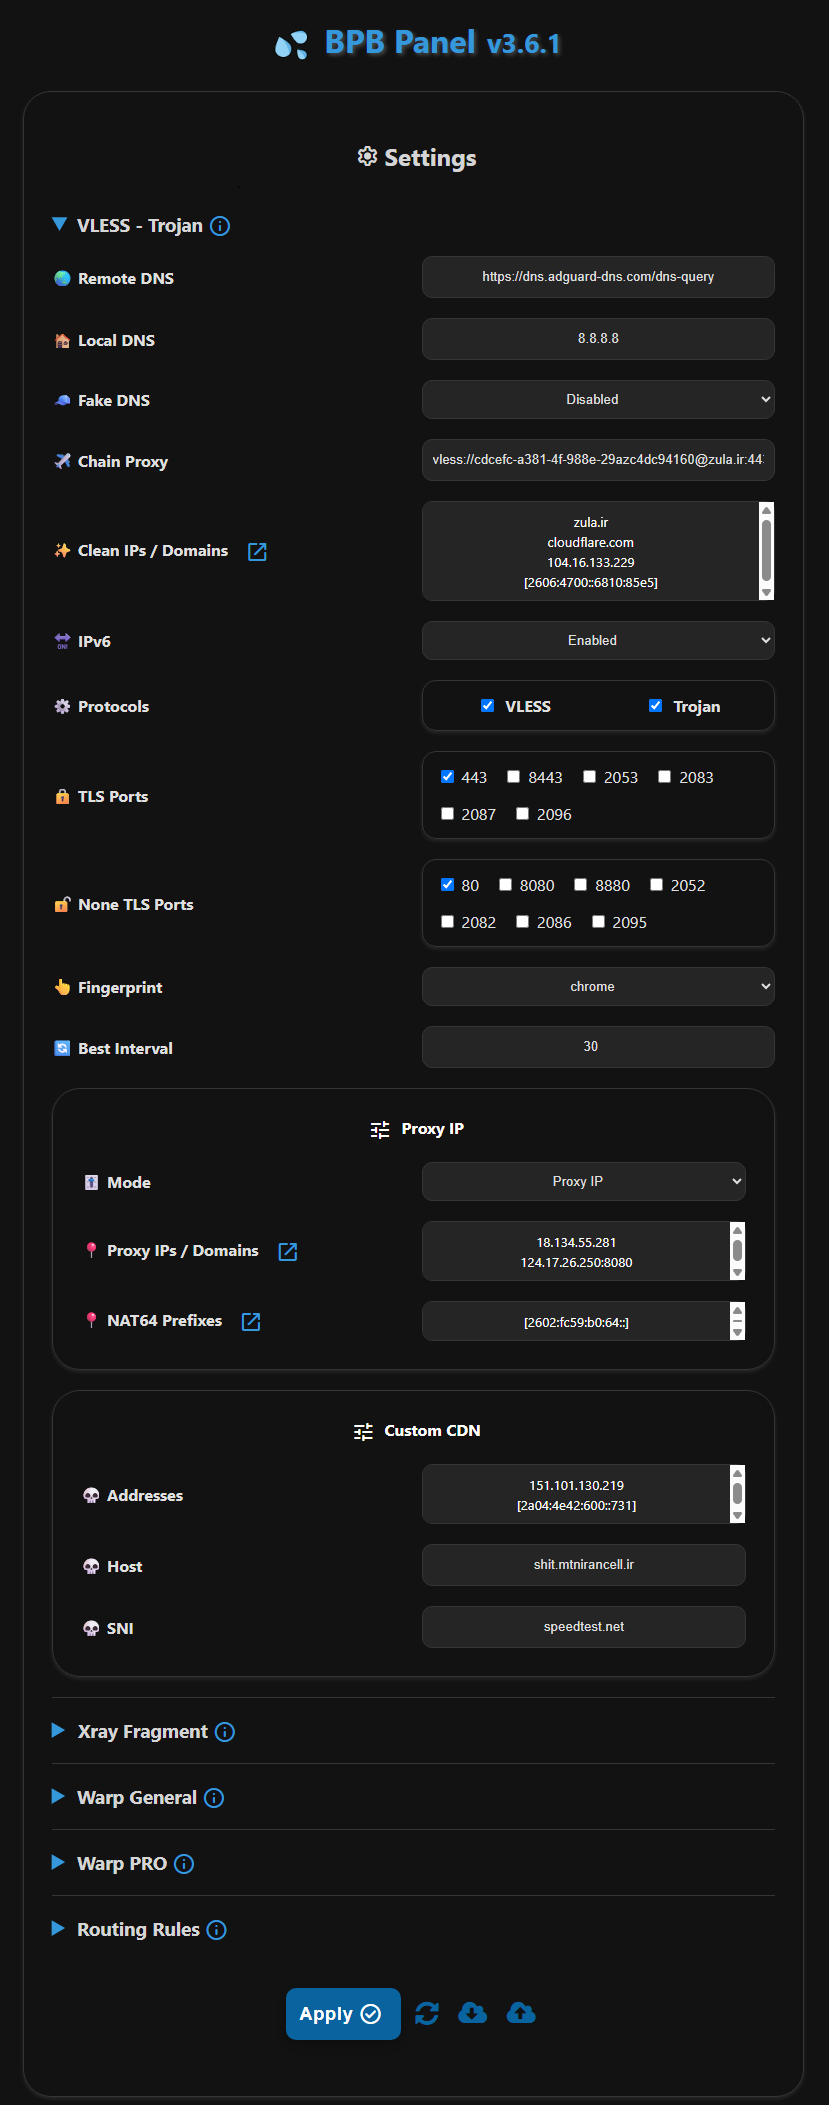
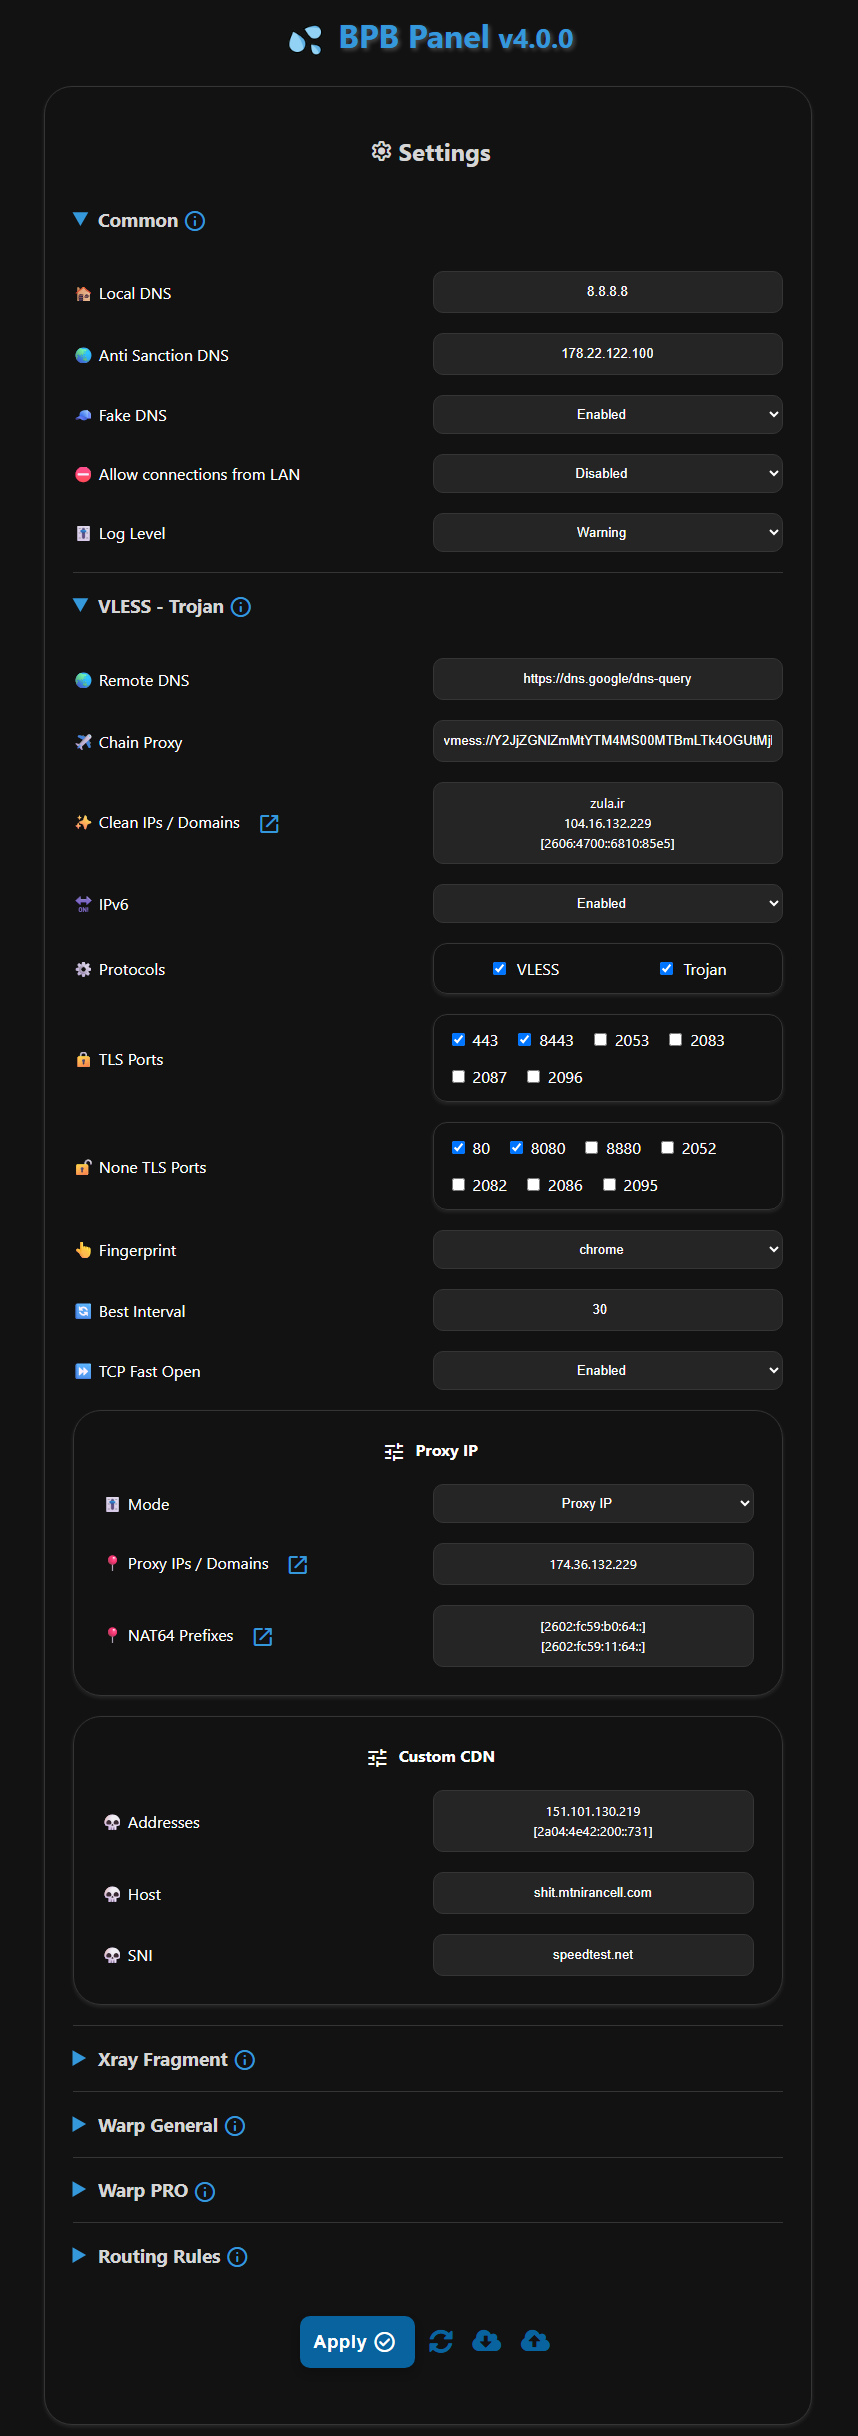
Fixed VMess bug, updated docs.

diff --git a/src/assets/panel/script.js b/src/assets/panel/script.js
@@ -327,7 +327,7 @@ async function updateWarpConfigs() {
     try {
         const response = await fetch('/panel/update-warp', { method: 'POST', credentials: 'include' });
         const { success, status, message } = await response.json();
-        
+
         document.body.style.cursor = 'default';
         refreshBtn.classList.remove('fa-spin');
 
@@ -776,23 +776,31 @@ function validateMinMax() {
 }
 
 function validateChainProxy() {
-    const chainProxy = getElmValue('outProxy');
+    let chainProxy = getElmValue('outProxy');
     if (!chainProxy) return true;
     const isSocksHttp = /(http|socks):\/\/(?:([^:@]+):([^:@]+)@)?([^:@]+):(\d+)$/.test(chainProxy);
-    const isOthers = /(vless|vmess|trojan|ss):\/\/[^\s@]+@[^\s:]+:[^\s]+/.test(chainProxy);
+    const isVMess = /vmess:\/\/.+$/.test(chainProxy);
+    const isOthers = /(vless|trojan|ss):\/\/[^\s@]+@[^\s:]+:[^\s]+/.test(chainProxy);
 
-    if (!isSocksHttp && !isOthers) {
-        alert('⛔ Invalid Config!\n💡 Standard formats are:\n + (socks or http)://user:pass@host:port\n + (socks or http)://host:port\n + vless://uuid@server:port...\n + trojan://password@server:port...\n + ss://password@server:port...');
+    if (!isSocksHttp && !isVMess && !isOthers) {
+        alert('⛔ Invalid Config!\n💡 Standard formats are:\n + (socks or http)://user:pass@server:port\n + (socks or http)://server:port\n + vless://uuid@server:port...\n + vmess://config...\n + trojan://password@server:port...\n + ss://password@server:port...');
         return false;
     }
 
     const config = new URL(chainProxy);
-    const { protocol, username, port } = config;
+    let { protocol, username, port } = config;
+    let security = config.searchParams.get('security');
+    let type = config.searchParams.get('type');
+    
+    if (isVMess) {
+        const vmConfig = JSON.parse(atob(config.host));
+        username = vmConfig.id;
+        port = vmConfig.port;
+        security = vmConfig.tls;
+        type = vmConfig.net;
+    }
 
-    if (['vless:', 'trojan:'].includes(protocol)) {
-        const security = config.searchParams.get('security');
-        const type = config.searchParams.get('type');
-
+    if (['vless:', 'trojan:', 'vmess:'].includes(protocol)) {
         if (!username) {
             alert('⛔ Invalid Config!\n💡 Config URL should contain UUID or Password.');
             return false;
@@ -808,7 +816,7 @@ function validateChainProxy() {
             return false;
         }
 
-        if (security === 'tls' && port !== '443') {
+        if (security === 'tls' && Number(port) !== 443) {
             alert('⛔ Invalid Config!\n💡 VLESS, VMess or Trojan TLS port can be only 443.');
             return false;
         }

diff --git a/src/kv.ts b/src/kv.ts
@@ -164,47 +164,53 @@ function extractChainProxyParams(chainProxy: string) {
 
     let url = new URL(chainProxy);
     const protocol = url.protocol.slice(0, -1);
+    const stdProtocol = protocol === "ss" ? _SS_ : protocol;
 
-    if (protocol === _VM_) {
-        const config = base64DecodeUtf8(url.host);
-        url = new URL(`${_VM_}://${config}`);
+    if (stdProtocol === _VM_) {
+        const config = JSON.parse(base64DecodeUtf8(url.host));
+        return {
+            protocol: stdProtocol,
+            uuid: config.id,
+            server: config.add,
+            port: config.port,
+            type: config.net,
+            headerType: config.type,
+            serviceName: config.path,
+            authority: config.authority,
+            path: config.path,
+            host: config.host,
+            security: config.tls,
+            sni: config.sni,
+            fp: config.fp,
+            alpn: config.alpn
+        };
     }
 
-    const {
-        hostname,
-        port,
-        username,
-        password,
-        search
-    } = url;
-
-    let configParams: any = {
-        protocol: protocol.replace('ss', _SS_),
-        server: hostname,
-        port: +port
+    const configParams: Record<string, string | number> = {
+        protocol: stdProtocol,
+        server: url.hostname,
+        port: +url.port
     };
 
     const parseParams = () => {
-        const params = new URLSearchParams(search);
-        for (const [key, value] of params) {
+        for (const [key, value] of url.searchParams) {
             configParams[key] = value;
         }
     }
 
-    switch (protocol) {
+    switch (stdProtocol) {
         case _VL_:
-        case _VM_:
-            configParams.uuid = username;
+            configParams.uuid = url.username;
             parseParams();
             break;
 
         case _TR_:
-            configParams.password = username;
+            configParams.password = url.username;
             parseParams();
             break;
 
-        case 'ss':
-            const auth = base64DecodeUtf8(username);
+        case _SS_:
+            const auth = base64DecodeUtf8(url.username);
             const [first, ...rest] = auth.split(':');
             configParams.method = first;
             configParams.password = rest.join(':');
@@ -213,8 +219,8 @@ function extractChainProxyParams(chainProxy: string) {
 
         case 'socks':
         case 'http':
-            configParams.user = username;
-            configParams.pass = password;
+            configParams.user = url.username;
+            configParams.pass = url.password;
             break;
 
         default:

diff --git a/src/assets/panel/index.html b/src/assets/panel/index.html
@@ -66,11 +66,11 @@
                         <label for="logLevel">🎚 Log Level</label>
                         <div>
                             <select id="logLevel" name="logLevel">
-                                <option value="none">none</option>
-                                <option value="warning">warning</option>
-                                <option value="error">error</option>
-                                <option value="info">info</option>
-                                <option value="debug">debug</option>
+                                <option value="none">Disabled</option>
+                                <option value="warning">Warning</option>
+                                <option value="error">Error</option>
+                                <option value="info">Info</option>
+                                <option value="debug">Debug</option>
                             </select>
                         </div>
                     </div>
@@ -326,15 +326,6 @@
                         </label>
                         <div>
                             <textarea type="text" id="warpEndpoints" name="warpEndpoints" rows="1" required></textarea>
-                        </div>
-                    </div>
-                    <div class="form-control">
-                        <label for="warpFakeDNS">🧢 Fake DNS</label>
-                        <div>
-                            <select id="warpFakeDNS" name="warpFakeDNS">
-                                <option value="true">Enabled</option>
-                                <option value="false">Disabled</option>
-                            </select>
                         </div>
                     </div>
                     <div class="form-control">

diff --git a/RELEASE.md b/RELEASE.md
@@ -10,6 +10,7 @@
 - Added a `Common` section to settings in order to handle shared settings between **VLESS**, **Trojan** and **Warp** configs.
 - Revised build process to reduce worker.js size up to ~120 KB.
 - Added `Log Level` and `Allow connections from LAN` to Common section as new features.
+- Changed anti saction DNS to [Shecan](https://shecan.ir/).
 - Panel UI improvements.
 - Updated docs.
 - And some other bug fixes and improvements.
